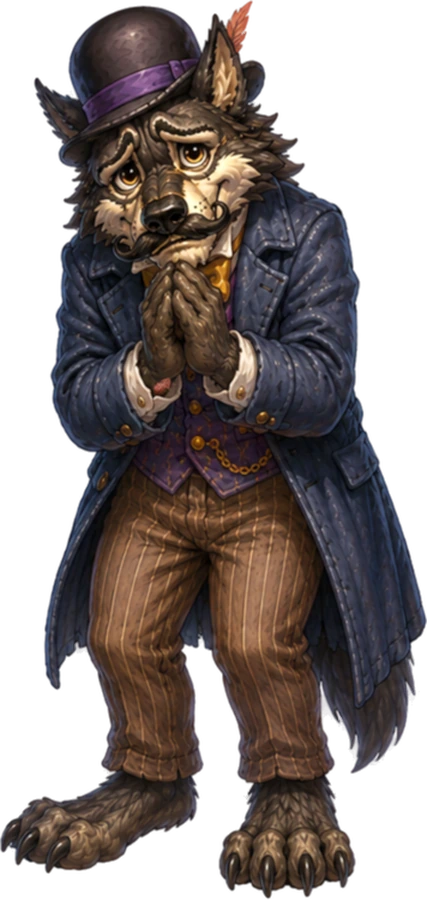
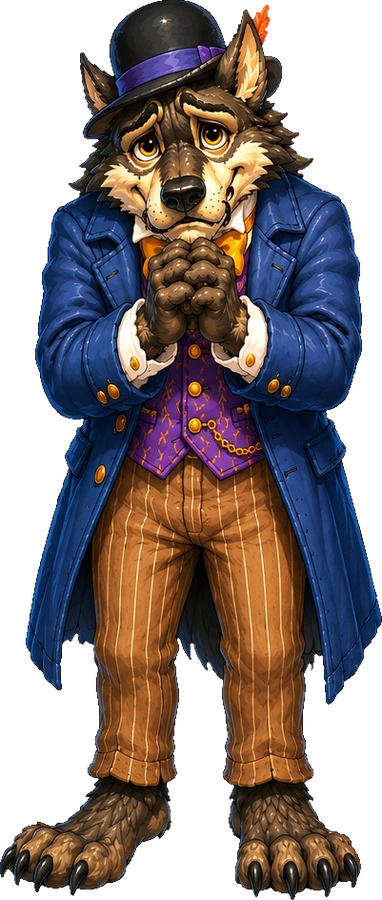
Wolf: bowler costume art + full costume-consistent reactions
- Add the de-fringed bowler (Baron von Nothungry) poses — plead/hungry/present/
  fist/wink — plus the new swollen wolf_bowler_allergic.
- moodArt now overrides happy/angry/allergic (not just allergic), so his whole
  result reaction stays in the costume he's wearing that round.
- Remap the delivery (Wally) arc to the clean base 'W. Wolf Deliveries' art
  (customer_wolf_* + wolf_mail_*) so that costume follows the same clean uniform
  everywhere instead of the old muddy wolf_delivery_* set.
- Add a fit scale for the bowler's wide allergic pose.

Claude-Session: https://claude.ai/code/session_01LXqynh2272HPNfiS49TDfc

diff --git a/docs/js/ui.js b/docs/js/ui.js
@@ -7,7 +7,7 @@
 
 const { R, newRound, applyTripleMatch, scoreMix, scoreResult, BALANCE } = ENGINE;
 const D = DATA;
-const BUILD = "v600"; // bump on each deploy; shown on the start screen to verify the live version
+const BUILD = "v601"; // bump on each deploy; shown on the start screen to verify the live version
 
 
 if (typeof ART !== "undefined" && ART.setVersion) ART.setVersion(BUILD); // cache-bust all art per build so updated images always refetch
@@ -317,7 +317,7 @@ const CHAR_OFFY = { fish: 9, bo_peep: 2, gingerbread: 5, gothel: 6, stepmother: 
 const CHAR_OFFX = {};
 // per-mood scale overrides ("<id>_<mood>") for the results portrait only, when one
 // pose frames differently than the rest (e.g. the sponge sword's tall allergic pose).
-const CHAR_MOOD_SCALE = { sword_allergic: 0.88, wolf_allergic: 0.82, wolf_tourist_allergic: 0.66 };   // wolf's puffed-up allergic poses are wide — shrink so they fit the frame
+const CHAR_MOOD_SCALE = { sword_allergic: 0.88, wolf_allergic: 0.82, wolf_tourist_allergic: 0.66, wolf_bowler_allergic: 0.95 };   // wolf's puffed-up allergic poses are wide — shrink so they fit the frame
 const PEARL = '<span class="pearl-ic" aria-label="pearl"></span>';   // a glossy CSS pearl (nicer than any emoji)
 
 /* ═══════════════════════════════════════════════════════════════════════════
@@ -1147,13 +1147,13 @@ const WOLF_VISITS = [
     wish: "Something to quiet a rumbling tummy, if you’d be so kind — I’ve a very full itinerary. Of snacking.",
     outroFigWin: "wolf_tourist_cheers", outroFigLose: "wolf_tourist_arms", allergicFig: "wolf_tourist_allergic",
     outroWin: "Mwah — <i>delicious</i>. I mean… adequate. For a tourist. Ahem. I’ll just be… touristing. Elsewhere. Ta!" },
-  { costume: "wolf_delivery", custArt: "wolf_delivery_angry", name: "“Wally, W. Wolf Deliveries”",
+  { costume: "customer_wolf", custArt: "customer_wolf_angry", name: "“Wally, W. Wolf Deliveries”",
     intro: [
-      { fig: "wolf_delivery_announce", text: "Delivery for— oh. No package. Just me: <i>Wally</i>. W. Wolf Deliveries. Completely unrelated surname, don’t read into it." },
-      { fig: "wolf_delivery_angry", text: "That last charm? DIDN’T WORK. I could eat a whole <b>sheep</b> right now. A WHOLE one. You owe me a freebie — that’s just good business.", cta: "Riiight  ▸" },
+      { fig: "wolf_mail_wave", text: "Delivery for— oh. No package. Just me: <i>Wally</i>. W. Wolf Deliveries. Completely unrelated surname, don’t read into it." },
+      { fig: "customer_wolf_angry", text: "That last charm? DIDN’T WORK. I could eat a whole <b>sheep</b> right now. A WHOLE one. You owe me a freebie — that’s just good business.", cta: "Riiight  ▸" },
     ],
     wish: "A free re-do, on the house — extra filling this time. I’ve deliveries to… deliver. Not eat. Deliver!",
-    outroFigWin: "wolf_delivery_thumbsup", outroFigLose: "wolf_delivery_sheepish",
+    outroFigWin: "customer_wolf_happy", outroFigLose: "wolf_mail_worried", allergicFig: "customer_wolf_allergic",
     outroWin: "Now THAT’S service. Package received — by my stomach. Wally, signing off! <i>(scurries)</i>" },
   { costume: "wolf_sherlock", custArt: "wolf_sherlock_pie", name: "“Detective Sherwood Woolf”",
     intro: [
@@ -1170,7 +1170,7 @@ const WOLF_VISITS = [
       { fig: "wolf_bowler_plead", text: "…Okay. Off the record? It’s getting embarrassing. Everyone <i>knows</i>. Just — one more wish. A big one. Make the hunger <b>stop</b>. Please?", cta: "Oh, Wolf…  ▸" },
     ],
     wish: "One proper feast-in-a-bottle. No tricks this time — I mean it. A wolf can only skulk about hungry for so long.",
-    outroFigWin: "wolf_bowler_hungry", outroFigLose: "wolf_bowler_fist",
+    outroFigWin: "wolf_bowler_hungry", outroFigLose: "wolf_bowler_fist", allergicFig: "wolf_bowler_allergic",
     outroWin: "…Thank you. Truly. For a moment there, I forgot I was hungry. <i>(quietly)</i> …It’s back now. But — thank you." },
 ];
 let WOLF_DEMO = false;   // admin: play all his visits back-to-back (no customers between)
@@ -1181,9 +1181,9 @@ function playWolfVisit() {
   SFX.unlock();
   [v.costume, v.custArt, v.outroFigWin, v.outroFigLose, v.allergicFig].concat(v.intro.map(b => b.fig)).forEach(f => { if (f) ART.ensure(f, () => {}); });   // pre-warm every expression this visit uses
   const beats = v.intro.map((b, idx) => ({ name: v.name, fig: b.fig || v.costume, text: b.text, cta: b.cta || (idx === v.intro.length - 1 ? "Make his wish  ▸" : undefined) }));
-  // moodArt keeps his ALLERGIC reaction in THIS visit's costume (e.g. the swollen tourist)
-  // instead of flipping to his default look. happy/angry still use the base face for now.
-  const moodArt = v.allergicFig ? { allergic: v.allergicFig } : null;
+  // moodArt keeps his whole result reaction (happy / angry / allergic) in THIS visit's
+  // costume, so the customer UI never flips back to his default look mid-round.
+  const moodArt = { happy: v.outroFigWin, angry: v.outroFigLose, allergic: v.allergicFig };
   renderStoryBeats(beats, () => startStoryWish(Object.assign(wolfCust(v.name), { art: v.custArt || v.costume, moodArt }), "wolf-arc", v.wish));
 }
 // A wolf visit comes due every few customers (Willow, after the tutorial). Can precede Red's warning.

diff --git a/docs/index.html b/docs/index.html
@@ -9,10 +9,10 @@
 <meta name="apple-mobile-web-app-title" content="Wish Pop">
 <meta name="mobile-web-app-capable" content="yes">
 <title>Wish Pop: Bubble Shop</title>
-<link rel="manifest" href="manifest.webmanifest?v=600">
-<link rel="apple-touch-icon" href="apple-touch-icon.png?v=600">
-<link rel="icon" type="image/png" href="icon-192.png?v=600">
-<link rel="stylesheet" href="css/styles.css?v=600">
+<link rel="manifest" href="manifest.webmanifest?v=601">
+<link rel="apple-touch-icon" href="apple-touch-icon.png?v=601">
+<link rel="icon" type="image/png" href="icon-192.png?v=601">
+<link rel="stylesheet" href="css/styles.css?v=601">
 
 
 </head>
@@ -42,11 +42,11 @@
   <p class="muted">Wish Pop is played upright. Turn your phone back to keep making wishes come true!</p>
 </div>
 
-<script src="js/audio.js?v=600"></script>
-<script src="js/data.js?v=600"></script>
-<script src="js/engine.js?v=600"></script>
-<script src="js/art.js?v=600"></script>
-<script src="js/ui.js?v=600"></script>
+<script src="js/audio.js?v=601"></script>
+<script src="js/data.js?v=601"></script>
+<script src="js/engine.js?v=601"></script>
+<script src="js/art.js?v=601"></script>
+<script src="js/ui.js?v=601"></script>
 
 
 <script>
